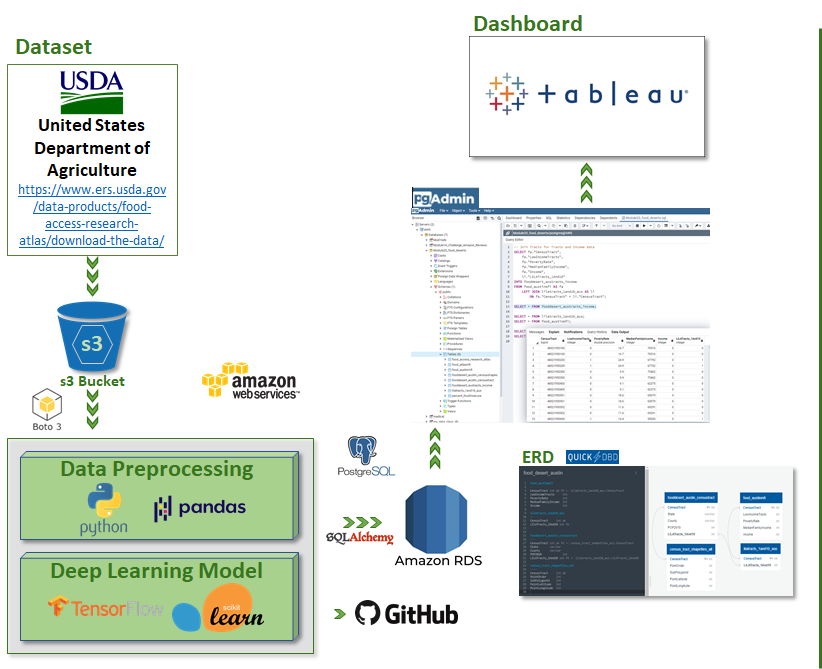
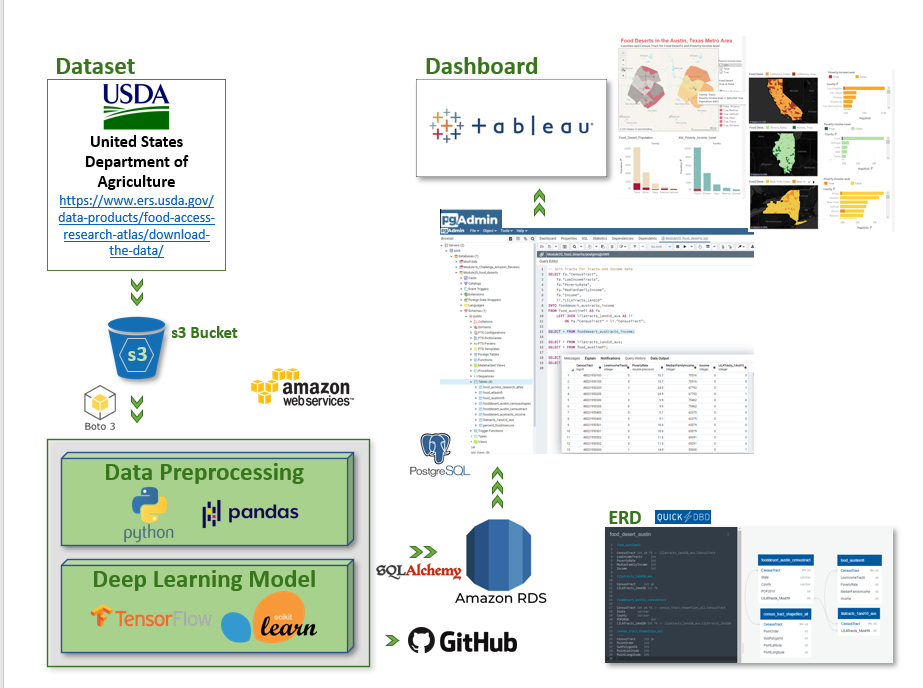
updates to readme and pipeline image

Changed region(s): [[0.0, 0.0, 1.0, 1.0], [0.2433, 0.5381, 0.3954, 0.5979], [0.8516, 0.5381, 0.882, 0.6278]]

diff --git a/README.md b/README.md
@@ -22,7 +22,7 @@ UTMCC DataViz Module 20 Team Project
    To apply machine learning and deep learning neural networks, and using the features within the provided dataset, create a binary classifier that is capable of predicting locations that are potentially food deserts, and to determine a correlation between an identified food desert location with the median income level of the population.  
    
    
-   The deliverables are:
+  #### Deliverables:
    
    Segment I
    * Deliverable 1: Presentation
@@ -30,19 +30,17 @@ UTMCC DataViz Module 20 Team Project
    * Deliverable 3: Machine Learning Model
    * Deliverable 4: Database
     
-  Segments II and III
+  Segments II, III and IV
    - Deliverable 1: Presentation
    - Deliverable 2: GitHub
    - Deliverable 3: Machine Learning Model
    - Deliverable 4: Database
    - Deliverable 5: Dashboard
-
-  
    
   
-   ### Resources
+  ### Resources
   * Data source: food_access_research_atlas.csv, food_access_variable_lookup.csv  sourced via kaggle https://www.kaggle.com/tcrammond/food-access-and-food-deserts from the USDA Economic Research Service, United States Department of Agriculture: https://www.ers.usda.gov/data-products/food-access-research-atlas/download-the-data/ 
-  * Software: Windows10, Python 3.8.3, Pandas, GitHub, Jupyter Notebook, Colab Notebook, VS Code, Scikit-learn, TensorFlow, Boto 3, SQLAlchemy, SQLite, PostgreSQL, pgAdmin, Tableau 
+  * Software: Windows10, Python 3.8.3, Pandas, GitHub, Jupyter Notebook, Colab Notebook, VS Code, Scikit-learn, TensorFlow, Boto3, SQLAlchemy, SQLite, PostgreSQL, pgAdmin, Tableau 
   * Services: AWS S3 data storage, AWS RDS database hosting.
   
   
@@ -51,7 +49,7 @@ UTMCC DataViz Module 20 Team Project
 | Segment - I  | **Triangle**<br>ML Model | **Square**<br>GitHub Repo | **X**<br>tech choices | **Circle**<br>database |
 | Segment - II | **Triangle** | **Square** | **X** | **Circle** |
 | Segment - III |**Triangle** | **Square** | **X** | **Circle**|
-| Segment - IV |  |  |  |  |
+| Segment - IV | **Triangle** | **Square** | **X** | **Circle**| 
 
 
   
@@ -67,14 +65,22 @@ UTMCC DataViz Module 20 Team Project
 | :--- | :--- | :--- |
 | `Food_Deserts_Module20.ipynb` | Data & db: `food_deserts_colab1.ipynb`<br>Py Neural Net ML Model: `Food_Deserts_Segment2_NN_v1.ipynb`<br>Py Supervised ML Model: `Food_Deserts_Segment2_SupervisedModels_v1.ipynb`<br>PostgreSQL AWS RDS: `Module20_food_deserts.sql` | Data, database and Py Neural Net ML Model: `Food_Deserts_NN_Segment3_v1.ipynb`<br>Py Supervised ML Model: `Food_Deserts_Segment2_SupervisedModels_v1.ipynb`<br>AWS S3 bucket: `dataviz20-bucket` <br>PostgreSQL AWS RDS: `Module20_food_deserts.sql`<br>Data Prep for Tableau Vizualizations: `tableau_data_explore_OR.ipynb` |
 
+
+| **Segment - IV** |
+| :--- |
+| Data preprocessing, database connection,  and Python Neural Net ML Model: `Food_Deserts_NN_Segment4_Final.ipynb`<br>Python Supervised ML Model: `Food_Deserts_Segment2_SupervisedModels_v1.ipynb`<br>AWS S3 bucket: `dataviz20-bucket` <br>PostgreSQL AWS RDS: `Module20_food_deserts.sql`<br>Data Preprocessing for Tableau Visualizations: `tableau_data_explore_OR.ipynb` | 
+
+
 - - - 
-[Dashboard: Link for Public Tableau](https://public.tableau.com/views/Food_Deserts_Austin_Metro_Area/Food_Deserts_Austin_Metro_Area?:language=en&:display_count=y&:origin=viz_share_link)
+
+### **[Dashboard: Link for Public Tableau](https://public.tableau.com/views/Food_Deserts_Austin_Metro_Area/Food_Deserts_Austin_Metro_Area?:language=en&:display_count=y&:origin=viz_share_link)**
+
 - - - 
 
-### Deliverables 1 - 4: [Presentation: Link for Google Slides](https://docs.google.com/presentation/d/1dVX5367_KH2e2Uqa4BGjRZkU12r1eEsXX5KotbnEDtQ/edit?usp=sharing)
+### Deliverables 1 - 4: **[Presentation: Link for Google Slides](https://docs.google.com/presentation/d/1dVX5367_KH2e2Uqa4BGjRZkU12r1eEsXX5KotbnEDtQ/edit?usp=sharing)**
 
 
-   ### Deliverable 1: Presentation
+  ### Deliverable 1: Presentation
    
    * Selected topic:  Food Deserts in the Austin, Texas Metro Area.
   
@@ -95,7 +101,7 @@ Using Machine Learning, can levels of income be accurately predicted based upon 
 
 .
 
-   ### Deliverable 2: GitHub  
+  ### Deliverable 2: GitHub  
    
    * READ.me established  
     
@@ -107,8 +113,7 @@ Using Machine Learning, can levels of income be accurately predicted based upon 
 
   Segment - III: 12 total commits each
 
-
-
+  Segment - IV: 16 total commits each
 
    . 
 
@@ -235,7 +240,7 @@ Segment - I:
 **Feature variables** 
 
 
-Segment - II
+**for Segments - II, III and IV**
 
 
    | **Feature** | **Description** |
@@ -258,20 +263,39 @@ Segment - II
   | **Seg - III** | **ML Training on full U.S. Census dataset**<br> ![NNML_training_summary.png](https://github.com/OliviaRodri/CEA_DEEP_LEARNING/blob/main/images/NNML_training_summary.png)<br>![NNML_training_accuracy.png](https://github.com/OliviaRodri/CEA_DEEP_LEARNING/blob/main/images/NNML_training_accuracy.png) <br>.**ML Testing on the Austin-Metro only data** <br> ![NNML_test_summary.png](https://github.com/OliviaRodri/CEA_DEEP_LEARNING/blob/main/images/NNML_test_summary.png) <br>![NNML_test_accuracy.png](https://github.com/OliviaRodri/CEA_DEEP_LEARNING/blob/main/images/NNML_test_accuracy.png) <br> |
 
 
+
+ 
+| **Segment - IV** | **NN Deep Learning Model** |
+| :--- | :--- |
+| **Training** | **on full U.S. Census dataset**<br>Accuracy:<br>![NNML__FINAL_training_accuracy.png](https://github.com/OliviaRodri/CEA_DEEP_LEARNING/blob/main/images/NNML__FINAL_training_accuracy.png)<br>Confusion Matrix:<br>![NNML_FINAL_training_confusion.png](https://github.com/OliviaRodri/CEA_DEEP_LEARNING/blob/main/images/NNML_FINAL_training_confusion.png) |
+| **Testing** | **on the Austin-Metro only data** <br>Accuracy: <br>![NNML_FINAL_test_accuracy.png](https://github.com/OliviaRodri/CEA_DEEP_LEARNING/blob/main/images/NNML_FINAL_test_accuracy.png)<br>Confusion Matrix: <br>![NNML_FINAL_test_confusion.png](https://github.com/OliviaRodri/CEA_DEEP_LEARNING/blob/main/images/NNML_FINAL_test_confusion.png) <br> |
+
+
 <br>
 
+## Note: If statistical analysis is not included as part of the current analysis, include a description of how it would be included in the next phases of the project.
 
+
+## the model obviously addresses the question or problem the team is solving. 
+
+
+## Results of Analysis
+
+
+## 
+
+<br>
 
 .
      
    ### Deliverable 4: Database
    
-  #### Segment - I Requirements: (Complete)
+  #### Segment - I Database Requirements: 
   * Present a provisional database that stands in for the final database and accomplishes the following:
   * Sample data that mimics the expected final database structure or schema 
   * Draft machine learning module is connected to the provisional database  
 
-  #### Segment - II Database Requirements: (Complete)
+  #### Segment - II, III and IV Database Requirements:
   * stores static data
   * interfaces with the project
   * includes minimum of two tables
@@ -282,19 +306,27 @@ Segment - II
       
      | **Project<br>Segment** | **database Status** |
      | :--- | :--- |
-     | **Seg - I** | moving pandas dataframe data into SQLite db table<br> ![data_to_sqlite.png](https://github.com/OliviaRodri/CEA_DEEP_LEARNING/blob/main/images/data_to_sqlite.png)<br>SQLite db table data to pd dataframe for ML model<br> ![SQLdata_to_newDataFrame.png](https://github.com/OliviaRodri/CEA_DEEP_LEARNING/blob/main/images/SQLdata_to_newDataFrame.png)<br>Machine Learning model dataframe source<br> ![DF_to_MLmodel.png](https://github.com/OliviaRodri/CEA_DEEP_LEARNING/blob/main/images/DF_to_MLmodel.png) |
+     | **Segment - I** | moving pandas dataframe data into SQLite db table<br> ![data_to_sqlite.png](https://github.com/OliviaRodri/CEA_DEEP_LEARNING/blob/main/images/data_to_sqlite.png)<br>SQLite db table data to pd dataframe for ML model<br> ![SQLdata_to_newDataFrame.png](https://github.com/OliviaRodri/CEA_DEEP_LEARNING/blob/main/images/SQLdata_to_newDataFrame.png)<br>Machine Learning model dataframe source<br> ![DF_to_MLmodel.png](https://github.com/OliviaRodri/CEA_DEEP_LEARNING/blob/main/images/DF_to_MLmodel.png) |
      |  |  |
-     | **Seg - II (updates)** | **Using AWS RDS, and pgAdmin as the User Iinterface. Eight Tables are established.**<br>![pgadmin_aws_sql.png](https://github.com/OliviaRodri/CEA_DEEP_LEARNING/blob/main/images/pgadmin_aws_sql.png)<br>**The project interface and connection strings to PostgreSQL with SQLAlchemy in Python.**<br>![sqlalchemy_aws_rds_connect.png](https://github.com/OliviaRodri/CEA_DEEP_LEARNING/blob/main/images/sqlalchemy_aws_rds_connect.png) <br>**Two JOIN unions are made, a LEFT JOIN within pgAdmin, and an INNER JOIN.**<br>![postgresql_sql_join.png](https://github.com/OliviaRodri/CEA_DEEP_LEARNING/blob/main/images/postgresql_sql_join.png) <br>**The ERD, showing relationships.**<br>![sql_erd.png](https://github.com/OliviaRodri/CEA_DEEP_LEARNING/blob/main/images/sql_erd.png) |
-     |  |  |
-     | **** | ... |
+     | **Segments - II, III and IV** | **Using AWS RDS, and pgAdmin as the User Iinterface. Eight Tables are established.**<br>![pgadmin_aws_sql.png](https://github.com/OliviaRodri/CEA_DEEP_LEARNING/blob/main/images/pgadmin_aws_sql.png)<br>**The project interface and connection strings to PostgreSQL with SQLAlchemy in Python.**<br>![sqlalchemy_aws_rds_connect.png](https://github.com/OliviaRodri/CEA_DEEP_LEARNING/blob/main/images/sqlalchemy_aws_rds_connect.png) <br>**Two JOIN unions are made, a LEFT JOIN within pgAdmin, and an INNER JOIN.**<br>![postgresql_sql_join.png](https://github.com/OliviaRodri/CEA_DEEP_LEARNING/blob/main/images/postgresql_sql_join.png) <br>**The ERD, showing relationships.**<br>![sql_erd.png](https://github.com/OliviaRodri/CEA_DEEP_LEARNING/blob/main/images/sql_erd.png) |
+    
 
 . 
+
+#### Data Pipeline and Technologies Used
+
+![data_pipeline.png](https://github.com/OliviaRodri/CEA_DEEP_LEARNING/blob/main/images/data_pipeline.png)
+
+
+
+
+.
 
 <br>
 
 ### Deliverable 5: Dashboard
 
-[Dashboard: Link for Public Tableau](https://public.tableau.com/views/Food_Deserts_Austin_Metro_Area/Food_Deserts_Austin_Metro_Area?:language=en&:display_count=y&:origin=viz_share_link)
+**[Dashboard: Link for Public Tableau](https://public.tableau.com/views/Food_Deserts_Austin_Metro_Area/Food_Deserts_Austin_Metro_Area?:language=en&:display_count=y&:origin=viz_share_link)**
 
 #### Segment - II Requirements:
 
